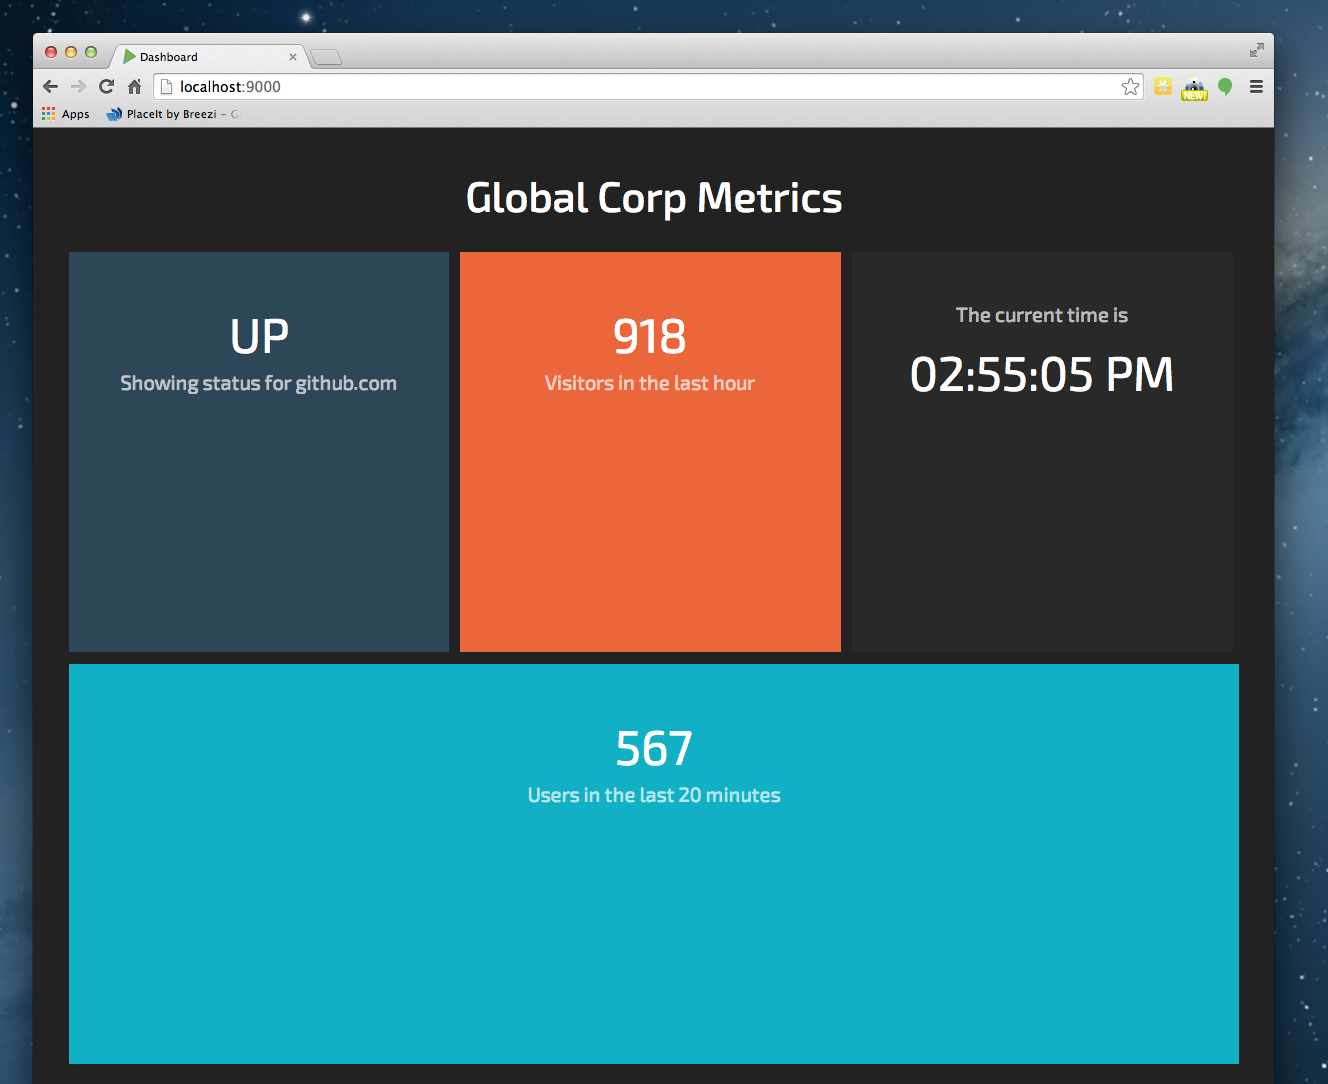
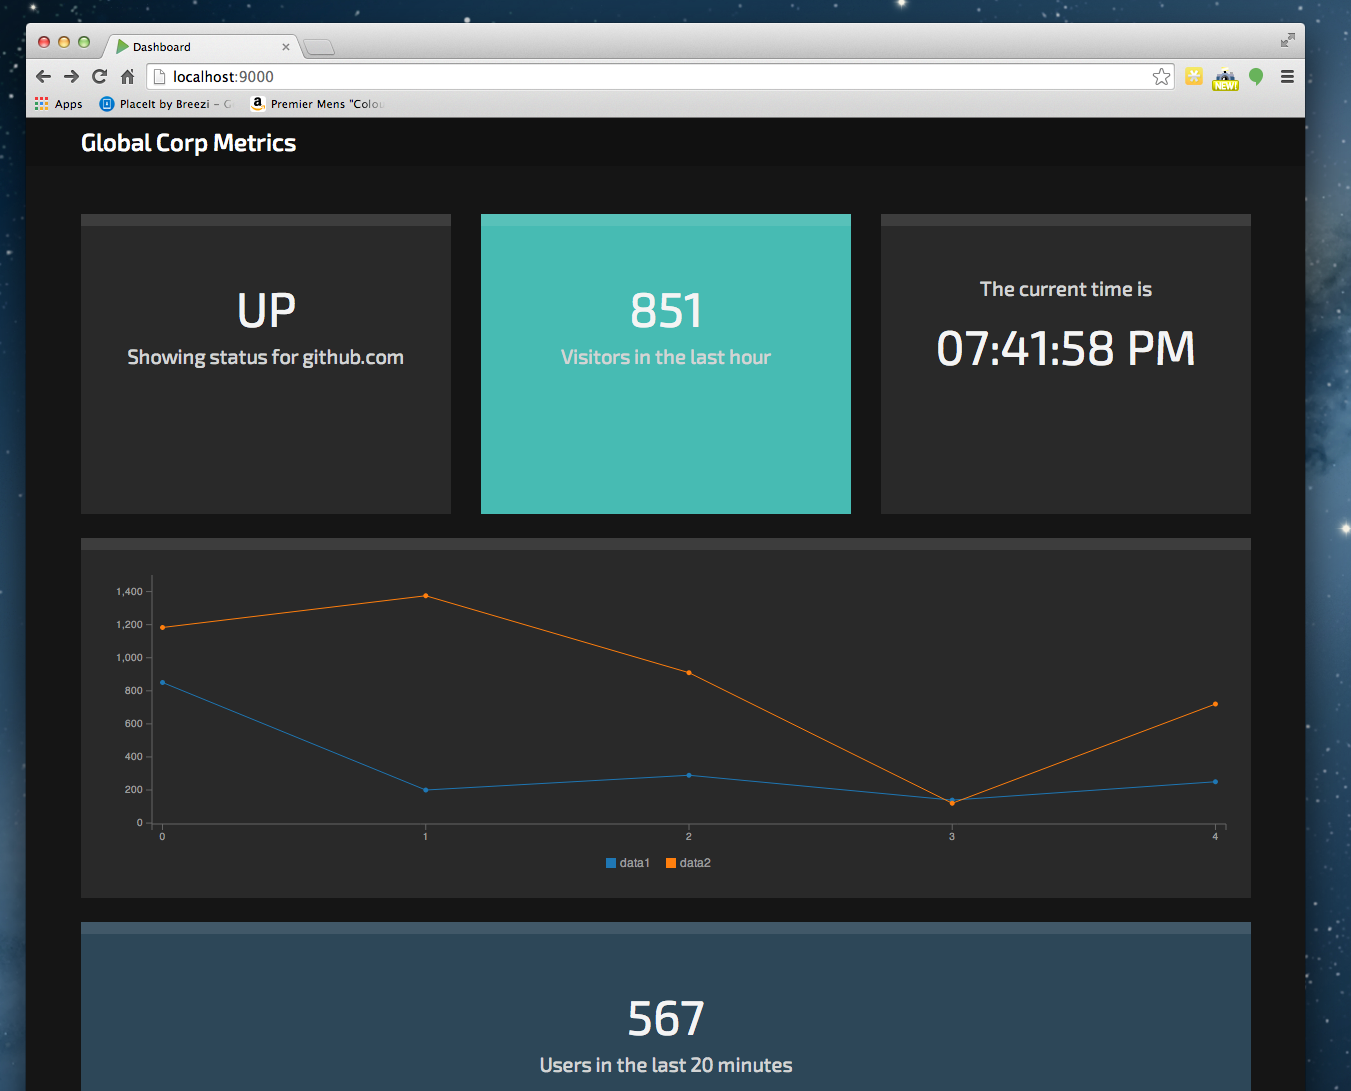
nicer charts

diff --git a/app/views/index.scala.html b/app/views/index.scala.html
@@ -2,13 +2,9 @@
 
 @main("Dashboard") {
 
-  <header>
-    <h1>My Dashboard</h1>
-  </header>
-
   <div class="row">
     <div class="col-md-4">
-      <div data-key="github-status" class="widget red">
+      <div data-key="github-status" class="widget dark">
         <div class="value">LOADING...</div>
         <p>Showing status for github.com</p>
       </div>
@@ -31,28 +27,19 @@
 
   <div class="row">
     <div class="col-md-12">
-      <div data-key="static" class="widget full dark">
+      <div class='chart widget full'>
+        <div id='chart'></div>
+      </div>
+    </div>
+  </div>
+
+  <div class="row">
+    <div class="col-md-12">
+      <div data-key="static" class="widget full blue">
         <div class="value">567</div>
         <p>Users in the last 20 minutes</p>
       </div>
     </div>
   </div>
-  
-  <div class="row">
-    <div class='chart'>
-      <div id='chart'></div>
-    </div>
-    
-    <script>
-        var chart = c3.generate({
-        data: {
-            columns: [
-                ['data1', 30, 200, 100, 400, 150, 250],
-                ['data2', 50, 20, 10, 40, 15, 25]
-            ]
-        }
-        });  
-    </script>
-  </div>
- 
+
 }

diff --git a/public/stylesheets/main.css b/public/stylesheets/main.css
@@ -1,8 +1,19 @@
 body {
-  background-color: #222;
-  color: #999;
+  background-color: #151515;
+  color: #d3d4d4;
   font-size: 20px;
   font-family: 'Exo 2', sans-serif;
+}
+
+nav {
+  background: #111;
+  width: 100%;
+  margin-bottom: 48px;
+  height: 48px;
+  line-height: 48px;
+  color: #FFF;
+  font-size: 24px;
+  font-weight: 500;
 }
 
 h1,h2,h3 { font-family: 'Exo 2', sans-serif; }
@@ -14,7 +25,7 @@ h1,h2,h3 { font-family: 'Exo 2', sans-serif; }
 header h1 {
   text-align: center;
   padding: 24px 0;
-  color: white;
+  color: #eee;
   font-size: 42px;
 }
 
@@ -24,7 +35,16 @@ header h1 {
   min-height: 300px;
   text-align: center;
   margin: 0 0 24px 0;
-  color: rgba(255,255,255,0.7);
+  color: #d3d4d4;
+  border-top: 12px solid rgba(255,255,255,0.1);
+}
+
+.led {
+  border-radius: 100%;
+  height: 15px;
+  width: 15px;
+  display: block;
+  background: #86b423;
 }
 
 .last {
@@ -35,7 +55,7 @@ header h1 {
 }
 
 .widget .value {
-  color: white;
+  color: #f4f4f4;
   font-size: 48px;
 }
 
@@ -63,7 +83,8 @@ header h1 {
   background: #292929;
   padding: 24px;
   clear: both;
-  min-height: 300px;
   width: 100%;
   overflow: hidden;
 }
+
+#chart { height: 300px; }

diff --git a/public/javascripts/app.js b/public/javascripts/app.js
@@ -28,6 +28,28 @@
         };
     }
 
-    window.onload = webSocketConnect();
+    function randomInt() {
+        return 10 + Math.abs(Math.random() * 1500);
+    }
+
+    function randomData() {
+        return [['data1', randomInt(), 200, randomInt(), randomInt(), 250],
+                ['data2', randomInt(), randomInt(), randomInt(), 120, randomInt()]]
+    }
+
+    function generateChart() {
+      var chart = c3.generate({
+        data: {
+          columns: randomData()
+        }
+      });
+      setInterval(function () {
+        chart.load({
+          columns: randomData()
+        });
+      }, 2000);
+    }
+
+    window.onload = function() { generateChart(); webSocketConnect(); }
 
 }());

diff --git a/app/views/main.scala.html b/app/views/main.scala.html
@@ -16,6 +16,11 @@
     <script src="http://c3js.org/js/c3.min-495bf4a1.js"></script>
   </head>
   <body>
+    <nav>
+      <div class="container">
+        Global Corp Metrics
+      </div>
+    </nav>
     <div class="container">
       @content
     </div>
